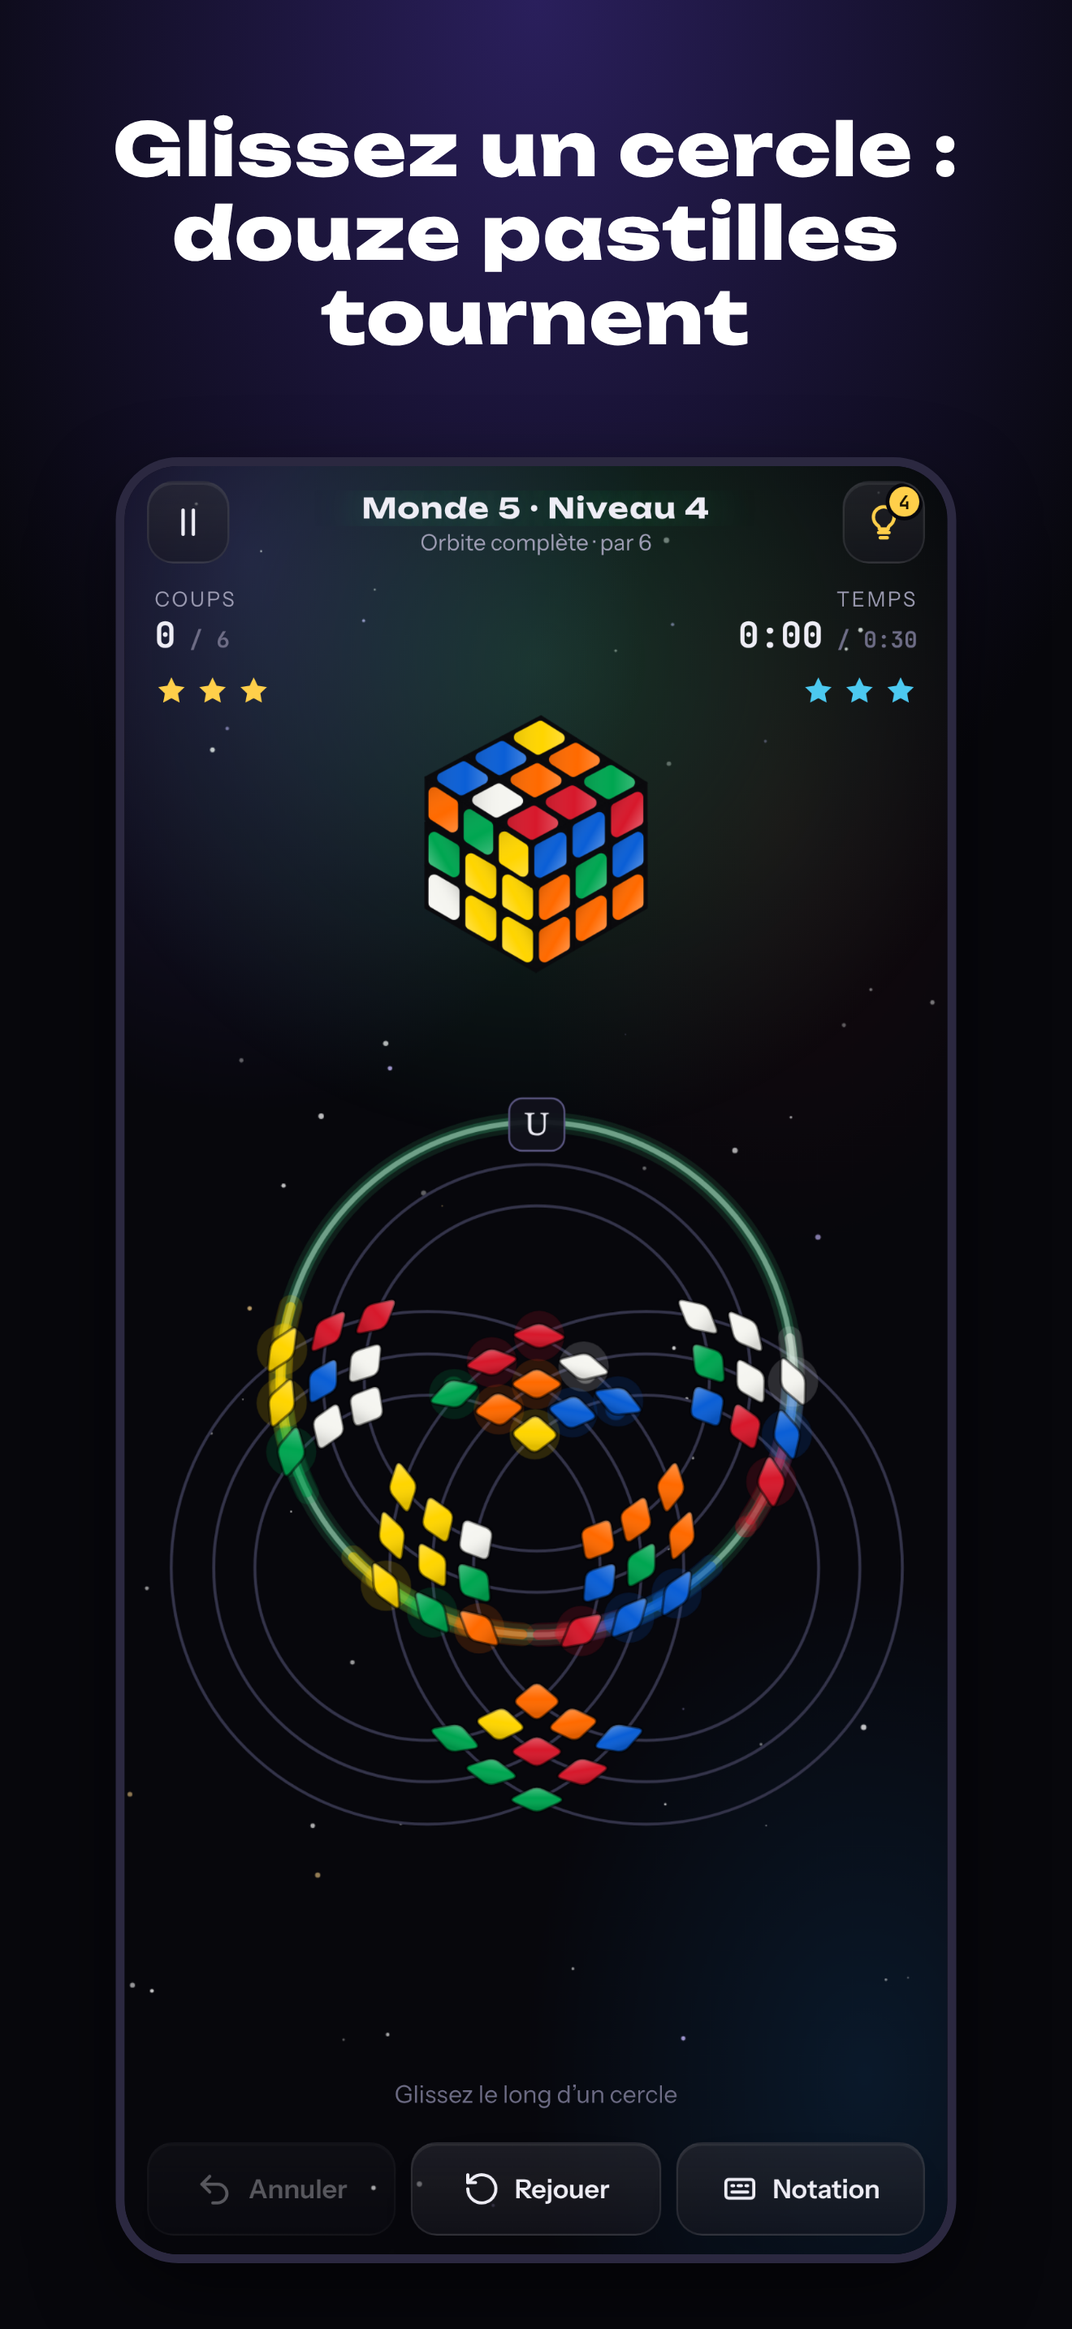
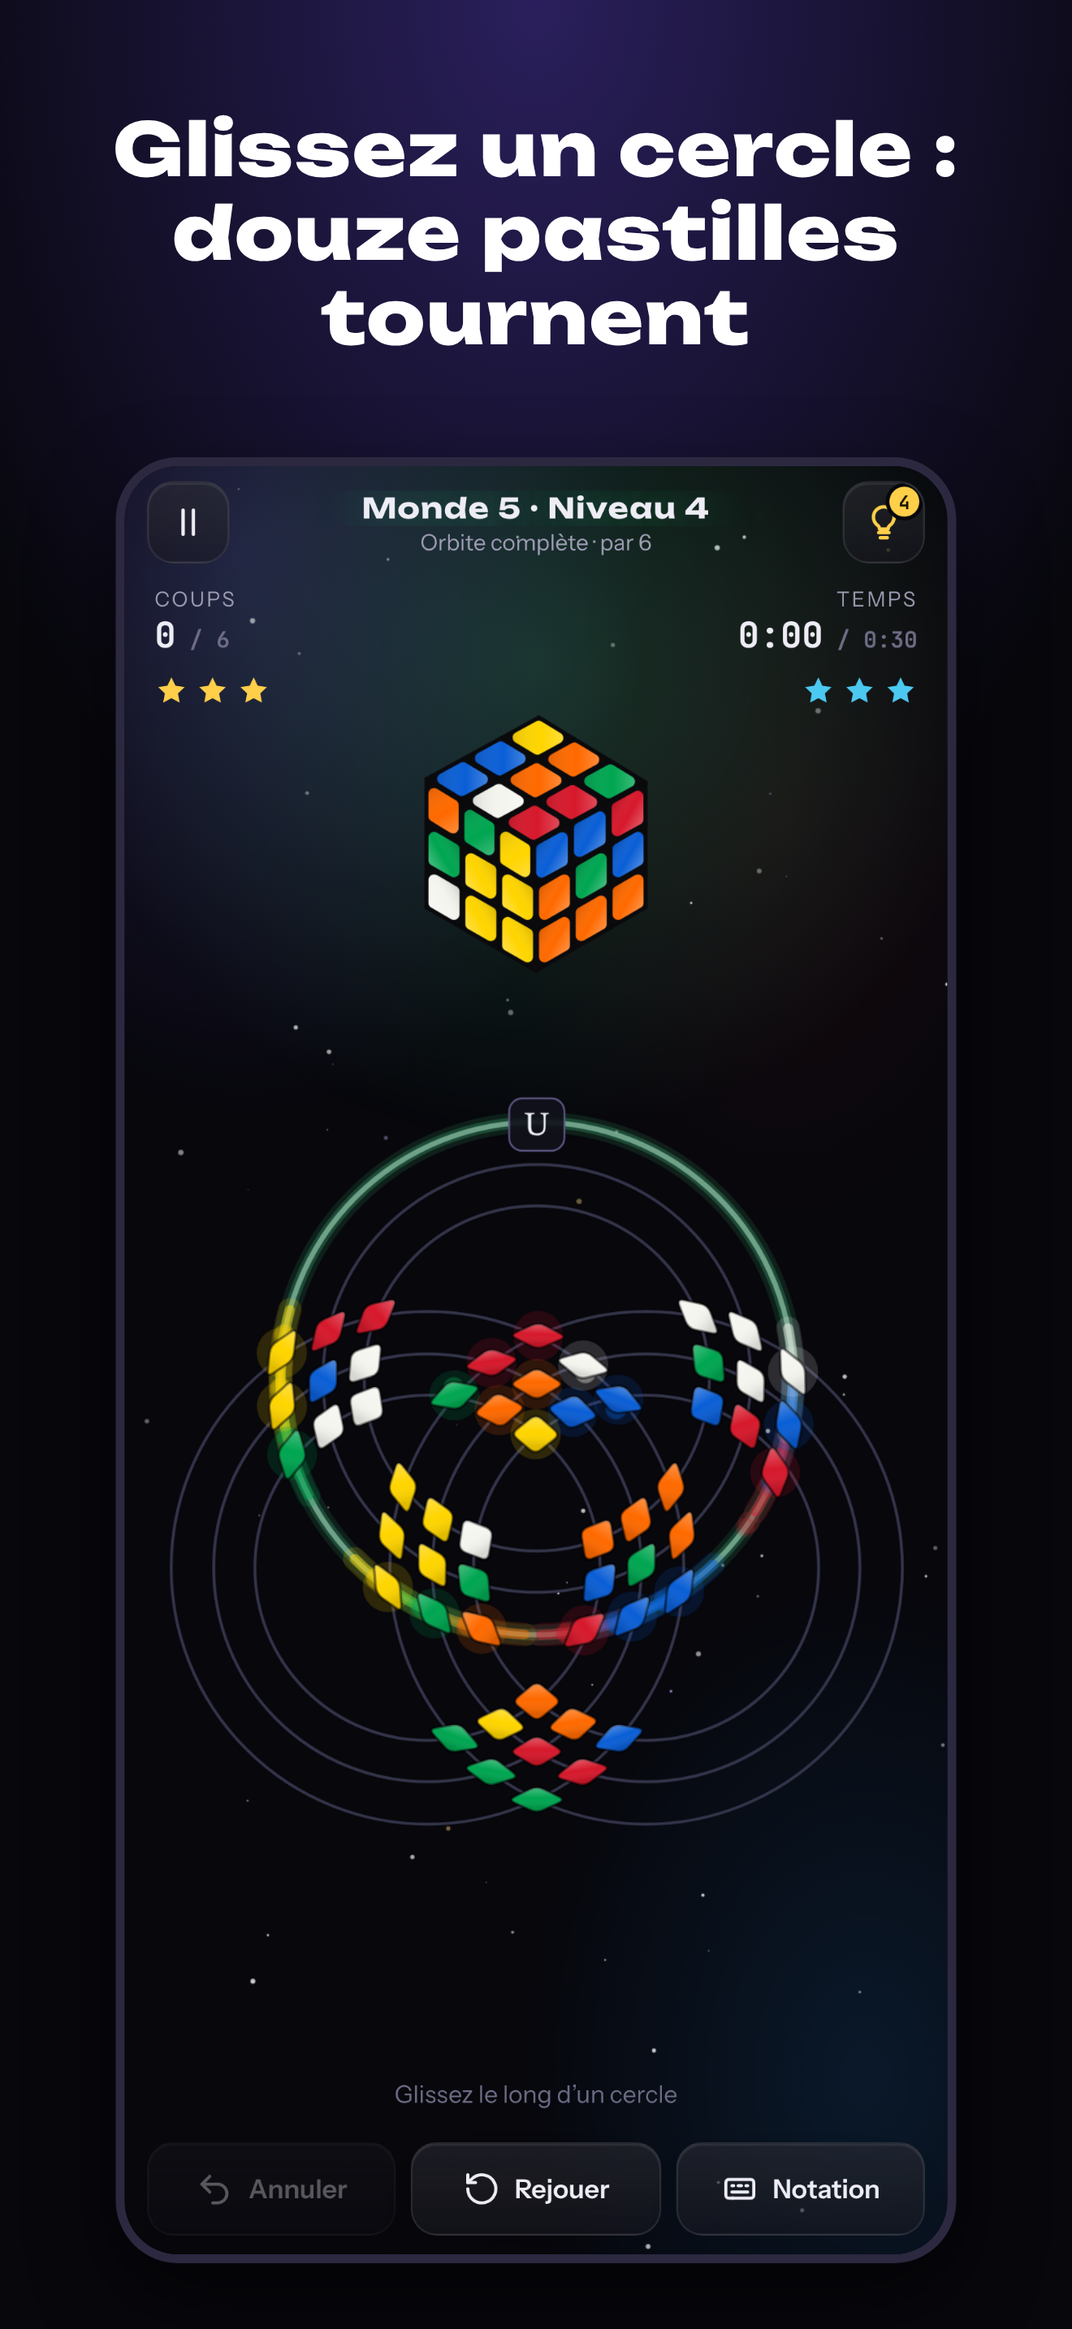
Orbicube : accueil épuré, rang dans la barre du haut
- La pastille d'étoiles et la bande du rang laissent la place à une seule
  puce au centre de la barre du haut : l'anneau d'expérience, le titre et
  les trois missions du jour ; elle ouvre le Profil.
- Le bouton principal porte deux lignes (Campagne / Suite dans le jeu
  complet, ou Niveau 3-1 · Les tranches) et le total d'étoiles à droite :
  plus de phrase rose sous le bouton.
- Le logo ne touche plus la barre du haut.
- Les joueurs qui avaient déjà des niveaux finis avant les rangs reçoivent
  une fois l'expérience correspondante (ils restaient au rang 1).
- Le Profil affiche les deux totaux d'étoiles.

Claude-Session: https://claude.ai/code/session_0149xvqQAFsWoXJkF64USQEK

diff --git a/orbicube/www/index.html b/orbicube/www/index.html
@@ -122,8 +122,6 @@ a.bouton{text-decoration:none;color:inherit}
 .rangee2{display:grid;grid-template-columns:1fr 1fr;gap:10px}
 .rangee2 .bouton{justify-content:center;font-size:15px;padding:0 10px}
 .pied{color:var(--sourd);font-size:12px;margin-top:8px;text-align:center}
-#piedTxt{align-self:center;margin:0;padding:7px 14px;border-radius:99px;background:var(--verre),rgba(14,14,24,.55);border:1px solid var(--bord);display:flex;justify-content:center;gap:14px;font-family:var(--f-chiffre);font-size:13px;color:var(--pale)}
-#piedTxt span{display:inline-flex;align-items:center;gap:6px}#piedTxt svg{width:15px;height:15px}#piedTxt small{color:var(--sourd);font-size:11px}
 
 .mondes{display:grid;gap:12px}
 .monde{display:grid;grid-template-columns:56px minmax(0,1fr);gap:14px;align-items:center;padding:14px;border-radius:var(--r);
@@ -383,6 +381,17 @@ body.zen #jeu .jinfo .stat,body.zen #jeu .jetoiles{visibility:hidden}
 /* ===== Accueil épuré (11/10/2026) : l'orbicube et le nom d'abord ; un bouton, trois tuiles, le reste en icônes ===== */
 .acc-haut{position:absolute;top:8px;left:12px;right:12px;display:flex;justify-content:space-between;z-index:2;pointer-events:none}
 .acc-haut .ico{pointer-events:auto;width:42px;height:42px;border-radius:50%}
+/* au centre de la barre du haut : le rang (anneau d'expérience) et les trois missions du jour */
+.puce-rang{pointer-events:auto;display:flex;align-items:center;gap:9px;height:42px;padding:0 14px 0 4px;border-radius:99px;border:1px solid var(--bord);background:var(--verre),rgba(14,14,24,.55);cursor:pointer;min-width:0}
+.puce-rang:active{transform:scale(.96)}
+.puce-rang .anneau-rang{width:34px;height:34px;font-size:13px}
+.puce-rang b{font-size:13.5px;font-weight:650;white-space:nowrap;overflow:hidden;text-overflow:ellipsis;max-width:42vw}
+.puce-rang .rb-mis{gap:4px}.puce-rang .rb-mis i{width:6px;height:6px}
+#accueil .defile{padding-top:62px}
+.deuxl{display:grid;gap:2px;min-width:0;text-align:left}
+.deuxl small{font-family:var(--f-texte);font-weight:500;font-size:12.5px;letter-spacing:0;opacity:.82;white-space:nowrap;overflow:hidden;text-overflow:ellipsis}
+.deuxl small:empty{display:none}
+#accueil #jouerSous{display:inline-flex;align-items:center;gap:5px;font-size:13px}#accueil #jouerSous svg{width:15px;height:15px;padding:0;background:none;border-radius:0;fill:#ffcf4a;stroke:none}
 /* la bande du rang, sous les modes : le rang, sa barre d'expérience, les missions du jour */
 .rangbande{display:flex;align-items:center;gap:12px;width:100%;padding:9px 14px 9px 9px;border-radius:18px;border:1px solid var(--bord);background:var(--verre),rgba(14,14,24,.55);cursor:pointer;text-align:left;min-height:54px}
 .rangbande:active{transform:scale(.98)}
@@ -396,6 +405,7 @@ body.zen #jeu .jinfo .stat,body.zen #jeu .jetoiles{visibility:hidden}
 .rang-carte .anneau-rang{width:108px;height:108px;font-size:40px}
 .rang-carte h3{margin:6px 0 0;font-family:var(--f-titre);font-size:21px;letter-spacing:.03em}
 .rang-carte .xp{font-family:var(--f-chiffre);font-size:12.5px;color:var(--pale)}
+.rang-carte .rc-et{display:inline-flex;align-items:center;gap:6px;font-family:var(--f-chiffre);font-size:13px;color:var(--pale)}.rang-carte .rc-et svg{width:15px;height:15px}
 .rang-carte .suite{margin:4px 0 0;font-size:13px;color:var(--pale)}
 .mission{display:grid;grid-template-columns:26px minmax(0,1fr) auto;gap:10px;align-items:center;padding:12px 16px;border-top:1px solid #20202f}
 .groupe h4+.mission{border-top:0}
@@ -453,7 +463,7 @@ body.zen #jeu .jinfo .stat,body.zen #jeu .jetoiles{visibility:hidden}
   <section class="ecran actif" id="accueil" aria-label="Accueil">
     <div class="acc-haut">
       <button class="ico" id="btnAide" type="button" aria-label="Comment jouer"><svg viewBox="0 0 24 24"><circle cx="12" cy="12" r="9"/><path d="M9.6 9.3a2.5 2.5 0 0 1 4.8.9c0 1.7-2.4 2.2-2.4 3.8"/><path d="M12 17.2v.1"/></svg></button>
-      <p class="pied" id="piedTxt"></p>
+      <button class="puce-rang" id="btnRang" type="button" aria-label="Profil, rang et missions"><span class="anneau-rang notrad" id="rangAnneau"></span><b id="rangTitre">Novice</b><span class="rb-mis" id="rangMissions"></span></button>
       <button class="ico" id="btnOptions" type="button" aria-label="Options"><svg viewBox="0 0 24 24"><path d="M4 7h10M18 7h2M4 17h4M12 17h8"/><circle cx="16" cy="7" r="2"/><circle cx="10" cy="17" r="2"/></svg></button>
     </div>
     <div class="defile">
@@ -466,8 +476,7 @@ body.zen #jeu .jinfo .stat,body.zen #jeu .jetoiles{visibility:hidden}
         <div class="menu cascade">
           <button class="bouton principal" id="btnJouer" type="button">
             <svg viewBox="0 0 24 24"><path d="M7 4l12 8-12 8z" fill="currentColor" stroke="none"/></svg>
-            <span id="jouerTxt">Jouer</span><span class="droite" id="jouerSous"></span></button>
-          <p class="sous-jouer" id="jouerMonde" hidden></p>
+            <span class="deuxl"><span id="jouerTxt">Jouer</span><small id="jouerMonde"></small></span><span class="droite notrad" id="jouerSous"></span></button>
           <div class="trio">
           <button class="bouton or bloc" id="btnJour" type="button">
             <i class="pastille"><svg viewBox="0 0 24 24"><rect x="3" y="5" width="18" height="16" rx="3"/><path d="M3 10h18M8 3v4M16 3v4"/><circle cx="12" cy="15.5" r="2"/></svg></i>
@@ -479,8 +488,6 @@ body.zen #jeu .jinfo .stat,body.zen #jeu .jetoiles{visibility:hidden}
             <i class="pastille"><svg viewBox="0 0 24 24"><circle cx="12" cy="9" r="6"/><path d="M8.5 14l-1.5 7 5-3 5 3-1.5-7"/></svg></i>
             <span>Succès</span><span class="droite notrad" id="succesSous"></span></button>
           </div>
-          <button class="rangbande" id="btnRang" type="button" aria-label="Profil, rang et missions"><span class="anneau-rang notrad" id="rangAnneau"></span>
-            <span class="rb-txt"><b id="rangTitre">Rang 1</b><i class="rb-barre"><i id="rangBarre"></i></i></span><span class="rb-mis" id="rangMissions"></span></button>
           <button class="puce-or" id="btnBoutique" type="button" hidden><svg viewBox="0 0 24 24"><path d="M3 8l4 4 5-7 5 7 4-4-2 11H5z"/></svg><span>Jeu complet</span><span class="notrad" id="prixAccueil"></span></button>
         </div>
         
@@ -956,7 +963,7 @@ function fusion(a,b){if(!b||typeof b!=="object")return a;var r=JSON.parse(JSON.s
   Object.keys(sb.meilleur||{}).forEach(function(k){var x=sa.meilleur[k],y=sb.meilleur[k];sa.meilleur[k]=!x?y:{coups:Math.min(x.coups,y.coups),temps:Math.min(x.temps,y.temps)};});
   Object.keys(b.jours||{}).forEach(function(k){var x=r.jours[k],y=b.jours[k];r.jours[k]=!x?y:{coups:Math.min(x.coups,y.coups),temps:Math.min(x.temps,y.temps),etoiles:Math.max(x.etoiles||0,y.etoiles||0)};});
   if((b.dernierJour||"")>(r.dernierJour||"")){r.dernierJour=b.dernierJour;r.serie=b.serie||0;}else if(b.dernierJour===r.dernierJour)r.serie=Math.max(r.serie||0,b.serie||0);r.serieMax=Math.max(r.serieMax||0,b.serieMax||0,r.serie||0);
-  r.xp=Math.max(r.xp||0,b.xp||0);r.semaines=r.semaines||{};
+  r.xp=Math.max(r.xp||0,b.xp||0);r.xpInit=r.xpInit||b.xpInit;r.semaines=r.semaines||{};
   Object.keys(b.semaines||{}).forEach(function(k){var x=r.semaines[k],y=b.semaines[k];r.semaines[k]=!x?y:{coups:Math.min(x.coups,y.coups),temps:Math.min(x.temps,y.temps),etoiles:Math.max(x.etoiles||0,y.etoiles||0)};});
   if(b.missions&&(!r.missions||b.missions.jour>r.missions.jour))r.missions=b.missions;
   else if(b.missions&&r.missions&&b.missions.jour===r.missions.jour){r.missions.bonus=r.missions.bonus||b.missions.bonus;r.missions.l.forEach(function(m,i){var o=b.missions.l[i];if(o&&o.id===m.id)m.p=Math.max(m.p,o.p);});}
@@ -1049,17 +1056,17 @@ function rafraichirAccueil(){var pn=prochainNiveau(),fait=Object.keys(PROG.nivea
   // la suite de la campagne peut être dans le jeu complet : le bouton dit alors « Campagne », pas « Continuer »
   var bloque=pn&&fait&&mondePaye(pn.w);
   document.getElementById("jouerTxt").textContent=!fait?"Jouer":(bloque||!pn)?"Campagne":"Continuer";
-  document.getElementById("jouerSous").textContent=bloque?"":pn?"niveau "+(pn.w+1)+"-"+(pn.i+1):"★ "+etoilesTotal();
+  document.getElementById("jouerSous").innerHTML=fait?SVG_ET+etoilesTotal():"";
   // défi du jour : réussi, il dit dans combien de temps vient le suivant ; sinon la série en cours, sinon « nouveau »
   var j=PROG.jours[cleJour()],dem=new Date();dem.setHours(24,0,0,0);var reste=dem-Date.now(),h=Math.floor(reste/3600000);
   document.getElementById("jourSous").textContent=j?(h>=1?"dans "+h+" h":"dans "+Math.max(1,Math.ceil(reste/60000))+" min"):
     (PROG.serie>1&&estHier(PROG.dernierJour)?"série de "+PROG.serie:"nouveau");
   // sous « Continuer » : le monde en cours et ses étoiles, dans sa couleur
-  var jm=document.getElementById("jouerMonde");if(pn&&fait){var M=MONDES[pn.w];jm.style.setProperty("--acc",ACCENTS[pn.w]);
-    jm.innerHTML=bloque?'<span>Mondes gratuits terminés · la suite dans le jeu complet</span>':'<span>'+M.nom+'</span><span class="notrad">· ★ '+etoilesMonde(pn.w)+'/'+M.coups.length*3+'</span>';jm.hidden=false;}else jm.hidden=true;
+  // la seconde ligne du bouton dit où l'on en est, sans phrase en plus sous le bouton
+  document.getElementById("jouerMonde").textContent=!fait?"Premier niveau":bloque?"Suite dans le jeu complet":!pn?"Campagne terminée":"Niveau "+(pn.w+1)+"-"+(pn.i+1)+" · "+MONDES[pn.w].nom;
   document.querySelector("#accueil .devise").hidden=fait>0;
-  document.getElementById("succesSous").textContent=Object.keys(PROG.succes).length+"/"+SUCCES.length;// pied de l'accueil : les deux sortes d'étoiles, côte à côte (les succès sont déjà sur leur tuile)
-  document.getElementById("piedTxt").innerHTML='<span class="notrad">'+SVG_ET+etoilesTotal()+'</span><span class="notrad">'+SVG_ETT+etoilesChrono()+'</span>';if(typeof majAchat==="function")majAchat();}
+  document.getElementById("succesSous").textContent=Object.keys(PROG.succes).length+"/"+SUCCES.length;
+  if(typeof majAchat==="function")majAchat();}
 
 /* ========== 10. CAMPAGNE ========== */
 var ET_PATH='<path d="M12 2.5l2.9 6 6.6.9-4.8 4.6 1.2 6.5L12 17.4l-5.9 3.1 1.2-6.5L2.5 9.4l6.6-.9z"/>';
@@ -1543,11 +1550,11 @@ function missionsVictoire(d,e,eT,temps){avancerMissions(function(m){return{cubes
     libre:d.mode==="libre"||d.mode==="sansfin"||d.relax?1:0}[m.id]||0;});
   avancerMissions(function(m){return m.id==="sansfin"&&d.mode==="sansfin"?d.etape:m.id==="vite"&&temps<=m.but*1000?m.but:0;},true);}
 function majRang(){var R=rangDe(PROG.xp),M=missionsDuJour();document.getElementById("rangAnneau").innerHTML=anneauRang(PROG.xp);
-  document.getElementById("rangTitre").textContent="Rang "+R.r+" · "+titreRang(R.r);document.getElementById("rangBarre").style.width=(100*R.xp/R.besoin).toFixed(1)+"%";
-  document.getElementById("rangMissions").innerHTML='<span class="notrad">'+M.l.filter(missionFinie).length+'/3</span>'+M.l.map(function(m){return '<i class="'+(missionFinie(m)?"ok":"")+'"></i>';}).join("");}
+  document.getElementById("rangTitre").textContent=titreRang(R.r);
+  document.getElementById("rangMissions").innerHTML=M.l.map(function(m){return '<i class="'+(missionFinie(m)?"ok":"")+'"></i>';}).join("");}
 function rafraichirProfil(){var R=rangDe(PROG.xp),M=missionsDuJour(),proch=CIELS.filter(function(c){return c.rang>R.r;})[0];
   document.getElementById("rangCarte").innerHTML='<span class="anneau-rang notrad">'+anneauRang(PROG.xp,2.4)+'</span><h3>'+titreRang(R.r)+'</h3>'+
-    '<span class="xp notrad">'+R.xp+' / '+R.besoin+' XP</span>'+(proch?'<p class="suite">Prochain ciel : '+proch.nom+', rang '+proch.rang+'</p>':"");
+    '<span class="xp notrad">'+R.xp+' / '+R.besoin+' XP</span><span class="rc-et notrad">'+SVG_ET+etoilesTotal()+' '+SVG_ETT+etoilesChrono()+'</span>'+(proch?'<p class="suite">Prochain ciel : '+proch.nom+', rang '+proch.rang+'</p>':"");
   document.getElementById("listeMissions").innerHTML=M.l.map(function(m){var ok=missionFinie(m);return '<div class="mission'+(ok?" ok":"")+'"><span class="coche">'+(ok?'<svg viewBox="0 0 24 24"><path d="M5 12.5l4.5 4.5L19 7.5"/></svg>':"")+'</span>'+
     '<div><b>'+texteMission(m)+'</b><i class="mb"><i style="width:'+(100*m.p/m.but).toFixed(0)+'%"></i></i></div><span class="mx notrad">'+(m.id==="vite"||m.id==="sansfin"?(ok?"✓":""):m.p+"/"+m.but)+'</span></div>';}).join("")+
     '<p class="mission-bonus">'+(M.bonus?"Les trois sont réussies : ampoule gagnée. Nouvelles missions demain.":"Les trois réussies : une ampoule. +"+XP_MISSION+" XP chacune.")+'</p>';
@@ -1556,7 +1563,6 @@ function rafraichirProfil(){var R=rangDe(PROG.xp),M=missionsDuJour(),proch=CIELS
 document.getElementById("listeCiels").addEventListener("click",function(e){var b=e.target.closest("[data-ciel]");if(!b)return;var c=CIELS.filter(function(x){return x.id===b.dataset.ciel;})[0];
   if(!cielOuvert(c)){vibrer(20);toast(c.nom,"Débloqué au rang {0}".replace("{0}",c.rang));return;}sonClic();opt("ciel",c.id);appliquerCiel();rafraichirProfil();});
 document.getElementById("btnRang").addEventListener("click",function(){sonClic();montrer("profil");});
-document.getElementById("piedTxt").addEventListener("click",function(){sonClic();montrer("profil");});
 
 // le défi de la semaine : un long mélange, le même pour tous du lundi au dimanche
 function cleSemaine(d){d=new Date(d||Date.now());d.setHours(0,0,0,0);d.setDate(d.getDate()+3-(d.getDay()+6)%7);var a=new Date(d.getFullYear(),0,4);
@@ -1626,7 +1632,11 @@ document.getElementById("optLangue").addEventListener("change",function(){PROG.o
   setTimeout(retirer,2400);})();
 // accès réservé aux outils de captures (npm run captures), actif seulement avec ?capture dans l'adresse
 if(/[?&]capture\b/.test(location.search))window.__orbicube={solution:function(){return J&&J.pret?cheminSolution().map(function(m){return nomDe(m).replace("′","'");}):[];},vus:function(){return Object.keys(VUS);},manques:function(){return Object.keys(MANQUES);}};
-function demarrer(){appliquerLangue();parcourir(document.body);appliquerOptions();majAchat();montrer("accueil");NATIF.demarrer();connecterSucces();
+// le rang est né après les premiers joueurs : leurs niveaux déjà finis lui donnent son expérience, une fois
+function rattraperXp(){if(PROG.xpInit)return;var x=0;Object.keys(PROG.niveaux).forEach(function(k){var w=+k.split("-")[0]-1,i=+k.split("-")[1]-1,r=PROG.niveaux[k];
+    if(MONDES[w]&&MONDES[w].coups[i]!=null)x+=Math.min(70,10+4*MONDES[w].coups[i])+5*(r.etoiles||0)+5*(r.chrono||0);});
+  x+=60*Object.keys(PROG.jours||{}).length;PROG.xp=(PROG.xp||0)+x;PROG.xpInit=true;sauver();}
+function demarrer(){rattraperXp();appliquerLangue();parcourir(document.body);appliquerOptions();majAchat();montrer("accueil");NATIF.demarrer();connecterSucces();
   // hors application native, le jeu se joue aussi hors ligne une fois chargé
   if(!NATIF.natif&&"serviceWorker" in navigator&&location.protocol==="https:")navigator.serviceWorker.register("sw.js").catch(function(){});}
 demarrer();

diff --git a/orbicube/www/langues.js b/orbicube/www/langues.js
@@ -53,6 +53,10 @@
     ["Monde {0} · Niveau {1} · {2}", "World {0} · Level {1} · {2}", "Wereld {0} · Level {1} · {2}", "Welt {0} · Level {1} · {2}", "Mundo {0} · Nivel {1} · {2}"],
     ["{0} · par {1}", "{0} · par {1}", "{0} · par {1}", "{0} · Par {1}", "{0} · par {1}"],
     // --- rang, missions, ciels, défis, relax
+    ["Premier niveau", "First level", "Eerste level", "Erstes Level", "Primer nivel"],
+    ["Suite dans le jeu complet", "More in the full game", "Meer in het volledige spel", "Mehr im Vollspiel", "Más en el juego completo"],
+    ["Campagne terminée", "Campaign complete", "Campagne voltooid", "Kampagne geschafft", "Campaña terminada"],
+    ["Niveau {0} · {1}", "Level {0} · {1}", "Level {0} · {1}", "Level {0} · {1}", "Nivel {0} · {1}"],
     ["Défis", "Challenges", "Uitdagingen", "Rätsel", "Retos"],
     ["Le même mélange pour tout le monde.", "The same scramble for everyone.", "Dezelfde husseling voor iedereen.", "Dasselbe Mischen für alle.", "La misma mezcla para todos."],
     ["Défi de la semaine", "Weekly challenge", "Wekelijkse uitdaging", "Wochenrätsel", "Reto semanal"],

diff --git a/orbicube/www/sw.js b/orbicube/www/sw.js
@@ -1,6 +1,6 @@
 // Version web (PWA) : tout le jeu est mis en cache pour se jouer hors ligne.
 // Incrémenter V à chaque publication, sinon les joueurs gardent l'ancienne version.
-var V = "orbicube-v35";
+var V = "orbicube-v36";
 var FICHIERS = ["./", "index.html", "config.js", "natif.js", "langues.js", "manifest.webmanifest", "confidentialite.html",
   "icones/favicon.png", "icones/apple-touch-icon.png", "icones/icon-192.png", "icones/icon-512.png", "icones/icon-maskable-512.png",
   "polices/polices.css", "polices/Unbounded-normal-700.woff2", "polices/Unbounded-normal-800.woff2",

diff --git a/CLAUDE.md b/CLAUDE.md
@@ -83,7 +83,10 @@ contresens). Un contrôle neuf s'éprouve de la même façon avant d'être cru.
   `avancerMissions`), +30 XP chacune, une ampoule pour les trois. **Ciels** (`CIELS`, `appliquerCiel`, classes
   `ciel-…` sur `body`) ouverts par rang. La tuile **Défis** ouvre le défi du jour et celui de la **semaine**
   (`semaineDef`, 14 coups, deux ampoules la première fois). **Relax** (`relaxDef`, depuis Partie libre) : 8 coups,
-  sans chrono, compteur ni étoiles. Écran **Profil** par la bande du rang de l'accueil ou la pastille des étoiles.
+  sans chrono, compteur ni étoiles. Écran **Profil** par la puce du rang, au centre de la barre du haut de l'accueil
+  (anneau d'expérience, titre, trois points de missions). Les joueurs d'avant le rang reçoivent une fois l'expérience
+  de leurs niveaux déjà finis (`rattraperXp`, `PROG.xpInit`). Le bouton principal porte deux lignes (l'action, puis
+  où l'on en est) et le total d'étoiles à droite : plus de phrase sous le bouton ni de bande du rang.
 - **Faces terminées** : halo discret de leur couleur sous leurs neuf pastilles (`RAYON_FACE`), sur le plateau de jeu.
 - **Musique** (`Musique`, `www/audio/nuit-dorbites.m4a`, générée par le client avec Suno sous licence
   commerciale) : AAC 96 kb/s (l'Opus d'origine ne se lit pas sur iPhone), boucle Web Audio avec fondu
